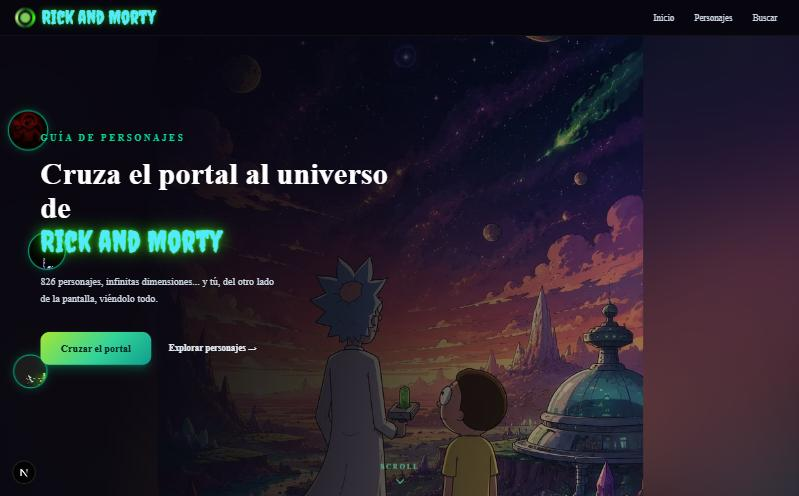
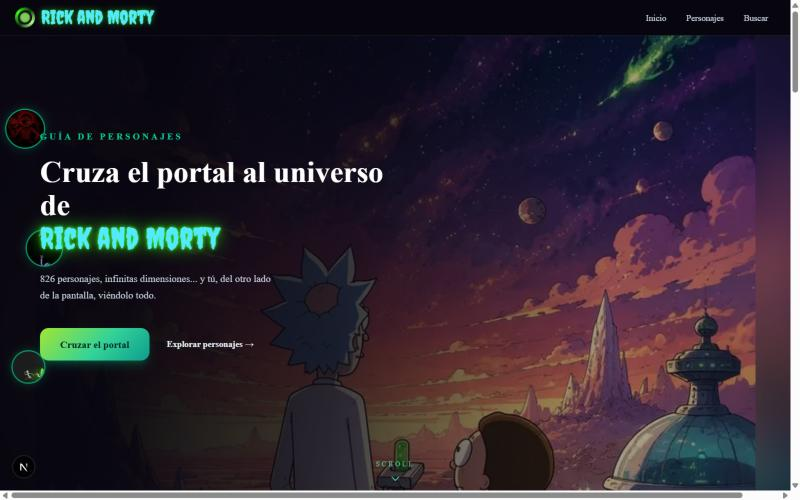
fix : semana10 - el fondo del hero se veia vacio en pantallas anchas
La franja nitida de BackgroundPhoto estaba fija en 768px: en un monitor
de 1920px el 70% restante quedaba como una mancha oscura casi vacia,
sobre todo con el texto ya alineado a la izquierda. Se agrega la opcion
"wide" para fotos panoramicas (el paisaje del Hero tolera bien que se
estire mas) y se aligera el desenfoque ambiental para que no se vea
vacio en el resto de los fondos (portal, banner de llegada).

diff --git a/SEMANA10/next-ssg-isr-app/src/app/RickandMorty/BackgroundPhoto.tsx b/SEMANA10/next-ssg-isr-app/src/app/RickandMorty/BackgroundPhoto.tsx
@@ -16,11 +16,16 @@ export default function BackgroundPhoto({
     alt = '',
     priority = false,
     focusClassName = '',
+    wide = false,
 }: {
     src: string;
     alt?: string;
     priority?: boolean;
     focusClassName?: string;
+    // para tomas panorámicas (no un retrato de cerca): una franja nítida más
+    // ancha, porque una foto de paisaje tolera mejor que se estire un poco y
+    // así no queda tanto espacio desenfocado y vacío en pantallas anchas
+    wide?: boolean;
 }) {
     return (
         <div className="absolute inset-0 overflow-hidden">
@@ -30,15 +35,17 @@ export default function BackgroundPhoto({
                 fill
                 aria-hidden
                 sizes="100vw"
-                className="scale-125 object-cover opacity-70 blur-3xl"
+                className="scale-110 object-cover opacity-90 blur-2xl"
             />
-            <div className="absolute inset-y-0 left-1/2 w-full max-w-3xl -translate-x-1/2">
+            <div
+                className={`absolute inset-y-0 left-1/2 w-full -translate-x-1/2 ${wide ? 'max-w-6xl' : 'max-w-3xl'}`}
+            >
                 <Image
                     src={src}
                     alt={alt}
                     fill
                     priority={priority}
-                    sizes="768px"
+                    sizes={wide ? '1152px' : '768px'}
                     className={`object-cover ${focusClassName}`}
                 />
             </div>

diff --git a/SEMANA10/next-ssg-isr-app/src/app/RickandMorty/Hero.tsx b/SEMANA10/next-ssg-isr-app/src/app/RickandMorty/Hero.tsx
@@ -122,7 +122,7 @@ export default function Hero({ total }: { total: number }) {
 
             {/* fondo a página completa, oscurecido hacia el texto (izquierda) */}
             <div className="absolute inset-0 -z-10">
-                <BackgroundPhoto src="/rickandmorty/landscape.jpg" priority />
+                <BackgroundPhoto src="/rickandmorty/landscape.jpg" priority wide />
                 <div
                     className="absolute inset-0"
                     style={{
